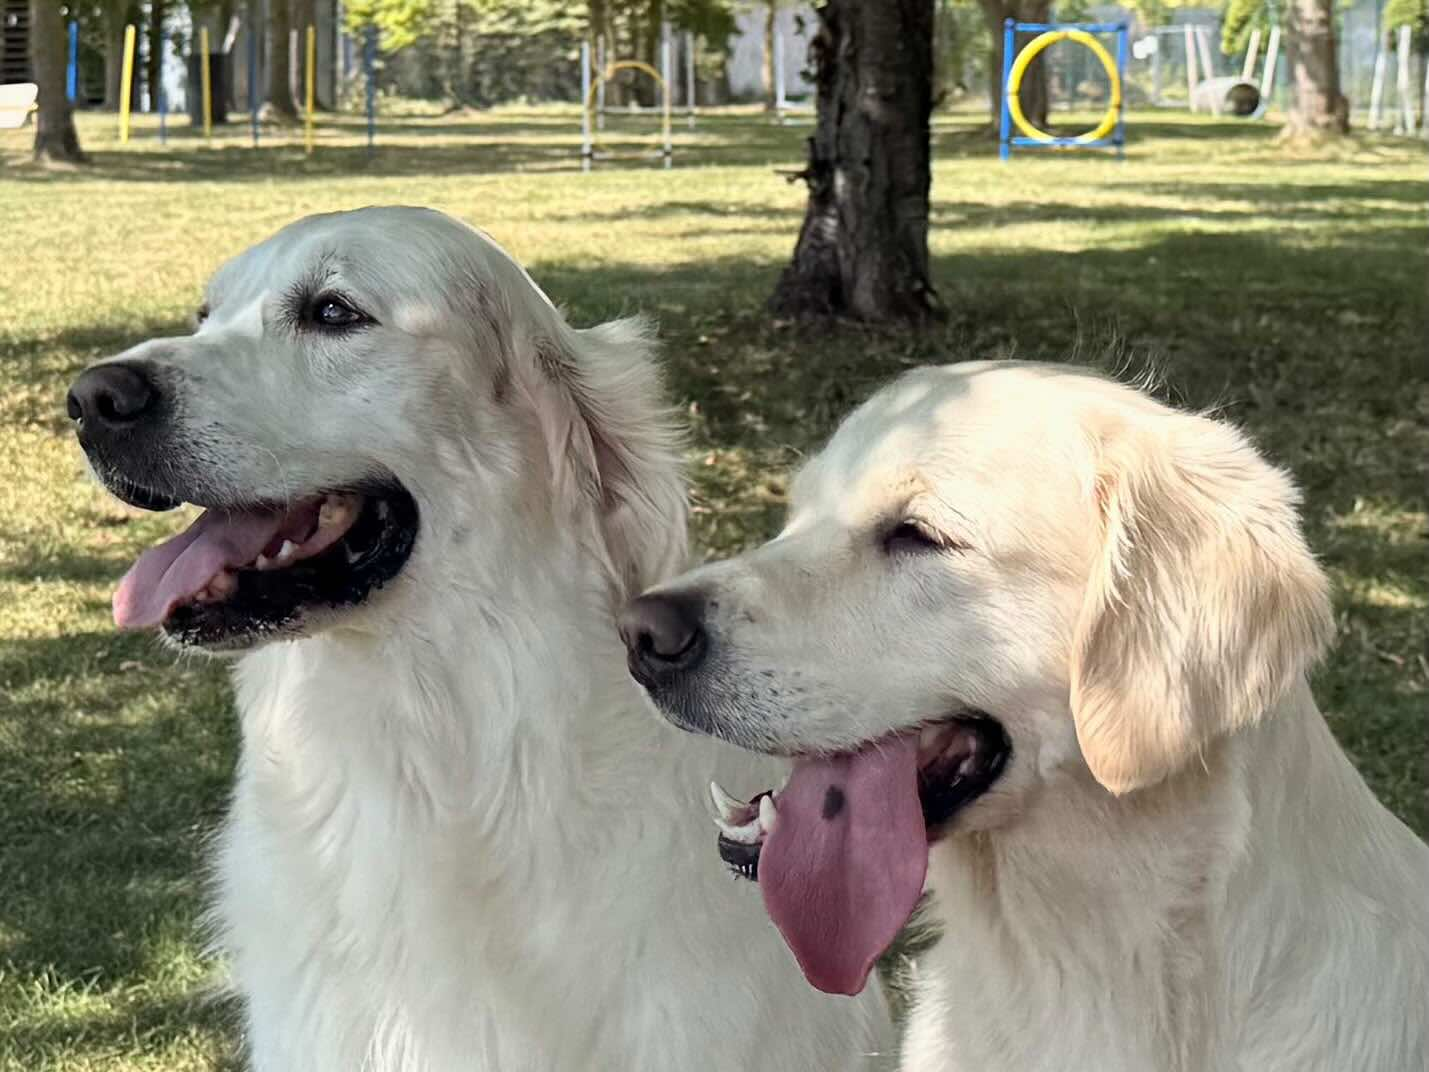
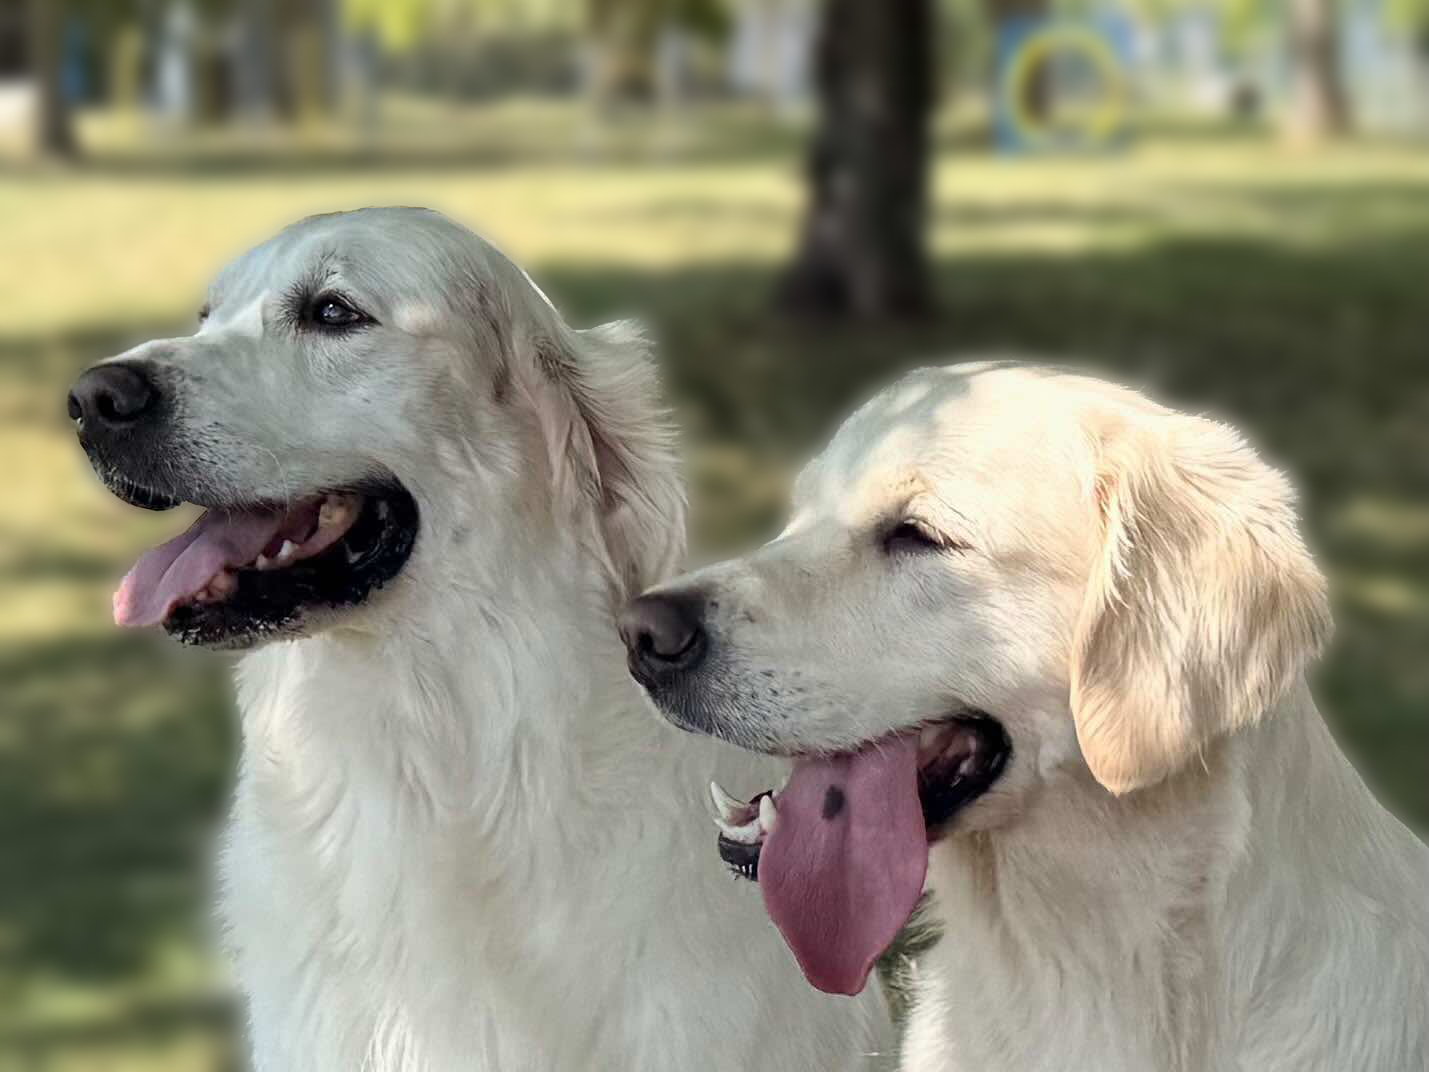
include urlaubs pic

diff --git a/pages/tara.html b/pages/tara.html
@@ -268,12 +268,43 @@
 	<div class="row">
 		<div class="column4">
 			<img src="../pic/tara/TaraAlsWelpe25.jpeg" style="width:100%">
+			<img src="../pic/tara/Urlaub_1.jpeg" style="width:100%">
+			<img src="../pic/tara/Urlaub_2.jpeg" style="width:100%">
+			<img src="../pic/tara/Urlaub_3.jpeg" style="width:100%">
+			<img src="../pic/tara/Urlaub_4.jpeg" style="width:100%">
+			<img src="../pic/tara/Urlaub_5.jpeg" style="width:100%">
+			<img src="../pic/tara/Urlaub_23.jpeg" style="width:100%">
+			<img src="../pic/tara/Urlaub_7.jpeg" style="width:100%">
 		</div>
 		<div class="column4">
+			<img src="../pic/tara/Urlaub_9.jpeg" style="width:100%">
+			<img src="../pic/tara/Urlaub_10.jpeg" style="width:100%">
+			<img src="../pic/tara/Urlaub_11.jpeg" style="width:100%">
+			<img src="../pic/tara/Urlaub_12.jpeg" style="width:100%">
+			<img src="../pic/tara/Urlaub_13.jpeg" style="width:100%">
+			<img src="../pic/tara/Urlaub_14.jpeg" style="width:100%">
+			<img src="../pic/tara/Urlaub_15.jpeg" style="width:100%">
+			<img src="../pic/tara/Urlaub_16.jpeg" style="width:100%">
 		</div>
 		<div class="column4">
+			<img src="../pic/tara/Urlaub_17.jpeg" style="width:100%">
+			<img src="../pic/tara/Urlaub_18.jpeg" style="width:100%">
+			<img src="../pic/tara/Urlaub_19.jpeg" style="width:100%">
+			<img src="../pic/tara/Urlaub_20.jpeg" style="width:100%">
+			<img src="../pic/tara/Urlaub_21.jpeg" style="width:100%">
+			<img src="../pic/tara/Urlaub_22.jpeg" style="width:100%">
+			<img src="../pic/tara/Urlaub_6.jpg" style="width:100%">
+			<img src="../pic/tara/Urlaub_24.jpeg" style="width:100%">
 		</div>
 		<div class="column4">
+			<img src="../pic/tara/Urlaub_25.jpeg" style="width:100%">
+			<img src="../pic/tara/Urlaub_26.jpeg" style="width:100%">
+			<img src="../pic/tara/Urlaub_27.jpeg" style="width:100%">
+			<img src="../pic/tara/Urlaub_28.jpeg" style="width:100%">
+			<img src="../pic/tara/Urlaub_29.jpeg" style="width:100%">
+			<img src="../pic/tara/Urlaub_30.jpeg" style="width:100%">
+			<img src="../pic/tara/Urlaub_32.jpg" style="width:100%">
+			<img src="../pic/tara/Urlaub_8.jpeg" style="width:100%">
 		</div>
 	</div>
 	<div class="seperater"></div>
